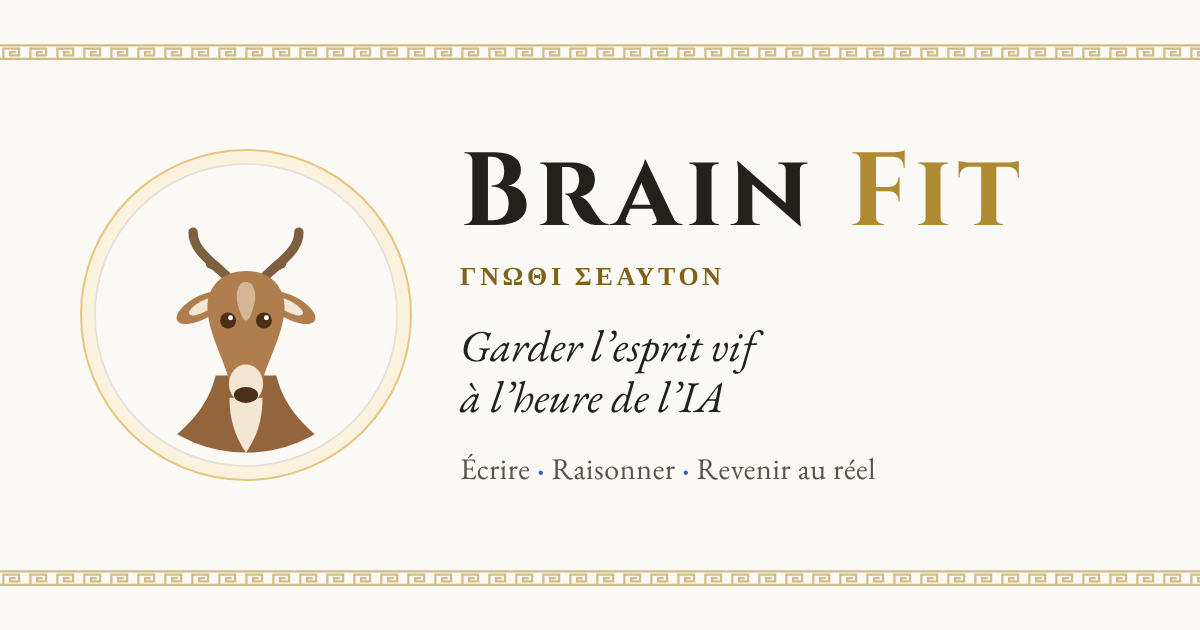
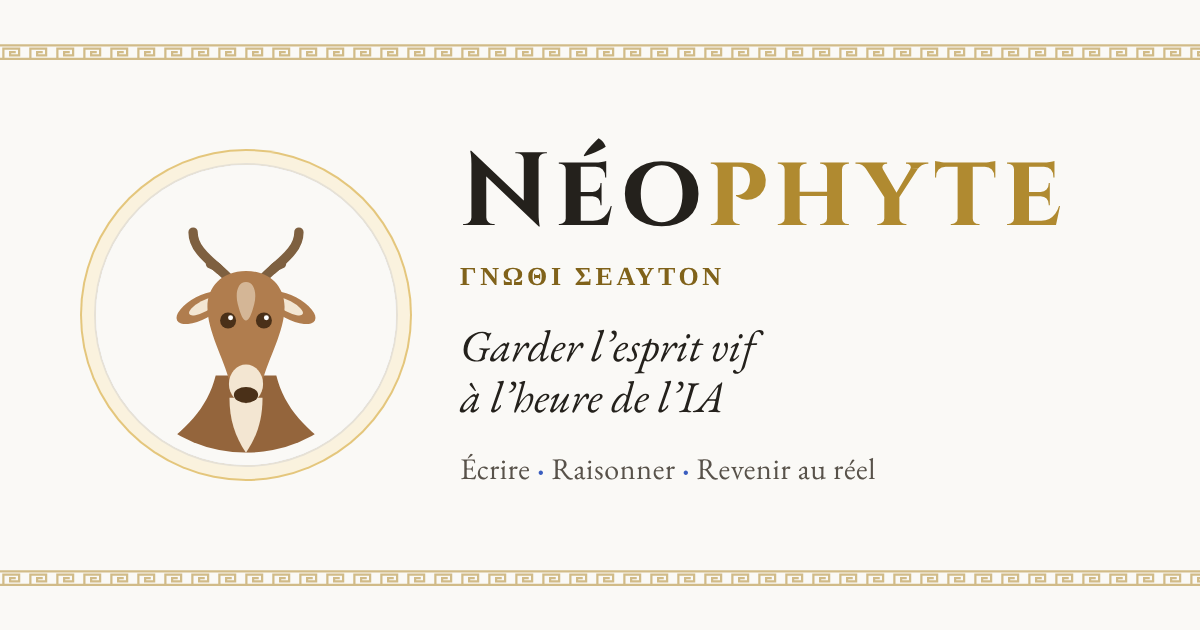
Renommer l'application en Néophyte (#1)
- Nom affiché, titre, balises de partage, manifeste, page 404 et README
- Logo en deux tons : Néo / phyte ; image d'aperçu des liens régénérée
- Fiches PDF : en-tête NÉOPHYTE, fichiers neophyte-*.pdf
- Niveau I renommé « Novice » pour ne pas doublonner avec le nom
- Inchangés : adresse /Brain-Fit/, clés de stockage brainfit.*, projet Supabase

Claude-Session: https://claude.ai/code/session_01LZgnse7bijyAPFwjxhEues

Changed region(s): [[0.37, 0.2111, 0.8942, 0.3619]]

diff --git a/public/index.html b/public/index.html
@@ -3,25 +3,25 @@
 <head>
 <meta charset="utf-8">
 <meta name="viewport" content="width=device-width, initial-scale=1, viewport-fit=cover">
-<title>Brain Fit · Garder l'esprit vif à l'heure de l'IA</title>
+<title>Néophyte · Garder l'esprit vif à l'heure de l'IA</title>
 <meta name="description" content="Quelques minutes par jour pour écrire, raisonner et retenir par toi-même. Gratuit, sans publicité.">
 <link rel="canonical" href="https://yohandk.github.io/Brain-Fit/">
 <meta property="og:type" content="website">
 <meta property="og:locale" content="fr_FR">
-<meta property="og:site_name" content="Brain Fit">
-<meta property="og:title" content="Brain Fit · Garder l'esprit vif à l'heure de l'IA">
+<meta property="og:site_name" content="Néophyte">
+<meta property="og:title" content="Néophyte · Garder l'esprit vif à l'heure de l'IA">
 <meta property="og:description" content="Quelques minutes par jour pour écrire, raisonner et retenir par toi-même. Gratuit, sans publicité.">
 <meta property="og:url" content="https://yohandk.github.io/Brain-Fit/">
 <meta property="og:image" content="https://yohandk.github.io/Brain-Fit/og.png">
 <meta property="og:image:width" content="1200">
 <meta property="og:image:height" content="630">
-<meta property="og:image:alt" content="Le cerf de Brain Fit et la devise « Garder l'esprit vif à l'heure de l'IA »">
+<meta property="og:image:alt" content="Le cerf de Néophyte et la devise « Garder l'esprit vif à l'heure de l'IA »">
 <meta name="twitter:card" content="summary_large_image">
 <meta name="theme-color" content="#FAF9F6" media="(prefers-color-scheme: light)">
 <meta name="theme-color" content="#101219" media="(prefers-color-scheme: dark)">
 <meta name="apple-mobile-web-app-capable" content="yes">
 <meta name="mobile-web-app-capable" content="yes">
-<meta name="apple-mobile-web-app-title" content="Brain Fit">
+<meta name="apple-mobile-web-app-title" content="Néophyte">
 <meta name="apple-mobile-web-app-status-bar-style" content="default">
 <link rel="manifest" href="manifest.webmanifest">
 <link rel="icon" href="icon.svg" type="image/svg+xml">
@@ -653,7 +653,7 @@ q{quotes:"« " " »" "“" "”"}
     <div class="brand">
       <button class="stag" id="stag" aria-label="Ton cerf : touche-le pour qu'il te parle"></button>
       <div class="brand-txt">
-        <h1>Brain <span>Fit</span></h1>
+        <h1>Néo<span>phyte</span></h1>
         <span class="motto"><b title="Connais-toi toi-même">ΓΝΩΘΙ ΣΕΑΥΤΟΝ</b> · <span id="today-label">aujourd'hui</span></span>
       </div>
       <div class="stag-bubble" id="stag-bubble" role="status" hidden></div>
@@ -691,7 +691,7 @@ q{quotes:"« " " »" "“" "”"}
   <!-- AUJOURD'HUI -->
   <section class="view" id="v-aujourdhui">
     <div class="panel syncwarn" id="syncwarn" hidden>
-      <p><b>Connecte-toi pour retrouver tes progrès partout.</b> Avec ton compte Brain Fit, ton téléphone et ton ordinateur partagent les mêmes progrès, et le coach est disponible. Sans compte, tout reste sur cet appareil.</p>
+      <p><b>Connecte-toi pour retrouver tes progrès partout.</b> Avec ton compte Néophyte, ton téléphone et ton ordinateur partagent les mêmes progrès, et le coach est disponible. Sans compte, tout reste sur cet appareil.</p>
       <form class="login" id="login">
         <input type="email" id="login-email" autocomplete="username" placeholder="Ton e-mail" aria-label="E-mail" required>
         <input type="password" id="login-pw" autocomplete="current-password" placeholder="Mot de passe" aria-label="Mot de passe" minlength="8" required>
@@ -987,11 +987,11 @@ q{quotes:"« " " »" "“" "”"}
       <p class="note">Sources vérifiées le 29 octobre 2026. Une expérience randomisée pèse plus qu'une enquête ou une corrélation, et un modèle théorique ne mesure rien : il décrit un scénario possible.</p>
     </div>
     <div class="panel" id="origins-panel">
-      <div><h2>D'où viennent les exercices</h2><p class="fg2">Aucun n'est inventé au hasard. Les formats viennent de la psychologie cognitive, de la logique et de la pédagogie, souvent de tests utilisés depuis plus d'un siècle. Les contenus (phrases, problèmes, arguments, événements) ont été rédigés et vérifiés pour Brain Fit, et le coach peut en créer d'autres. Une limite à connaître : un exercice entraîne surtout ce qu'il entraîne. C'est pourquoi l'écriture, le raisonnement et la lecture passent avant les jeux de mémoire.</p></div>
+      <div><h2>D'où viennent les exercices</h2><p class="fg2">Aucun n'est inventé au hasard. Les formats viennent de la psychologie cognitive, de la logique et de la pédagogie, souvent de tests utilisés depuis plus d'un siècle. Les contenus (phrases, problèmes, arguments, événements) ont été rédigés et vérifiés pour Néophyte, et le coach peut en créer d'autres. Une limite à connaître : un exercice entraîne surtout ce qu'il entraîne. C'est pourquoi l'écriture, le raisonnement et la lecture passent avant les jeux de mémoire.</p></div>
       <div id="origins"></div>
     </div>
     <div class="panel" id="pistes-panel">
-      <div><h2>8 pistes pour rester maître de sa pensée</h2><p class="fg2">Les pistes de la vidéo sur l'IA vue comme un « virus cognitif », et où les pratiquer dans Brain Fit.</p></div>
+      <div><h2>8 pistes pour rester maître de sa pensée</h2><p class="fg2">Les pistes de la vidéo sur l'IA vue comme un « virus cognitif », et où les pratiquer dans Néophyte.</p></div>
       <div class="tips" id="pistes"></div>
     </div>
     <div class="panel" id="rules-panel">
@@ -999,12 +999,12 @@ q{quotes:"« " " »" "“" "”"}
       <div class="tips" id="tips"></div>
     </div>
     <div class="panel" id="about">
-      <h2>À propos de Brain Fit</h2>
-      <p class="fg2" style="max-width:65ch">Brain Fit est né d'une inquiétude simple : à force de tout demander à l'IA, on risque de ne plus savoir écrire, raisonner ni retenir par soi-même. L'application propose un entraînement court et quotidien, fondé sur la recherche en psychologie cognitive et sur une tradition éducative ancienne : la dispute, l'examen, la relecture.</p>
+      <h2>À propos de Néophyte</h2>
+      <p class="fg2" style="max-width:65ch">Néophyte est né d'une inquiétude simple : à force de tout demander à l'IA, on risque de ne plus savoir écrire, raisonner ni retenir par soi-même. L'application propose un entraînement court et quotidien, fondé sur la recherche en psychologie cognitive et sur une tradition éducative ancienne : la dispute, l'examen, la relecture.</p>
       <ul class="fg2 about-list">
         <li>Gratuit, sans publicité ni mesure d'audience.</li>
         <li>Sans compte, tout reste sur ton appareil. Avec un compte, tes progrès sont gardés chez Supabase : le détail est dans « Tes données », dans les réglages.</li>
-        <li>Les contenus (problèmes, citations, questions disputées, études) ont été rédigés et vérifiés pour Brain Fit. Chaque citation et chaque étude indique sa source.</li>
+        <li>Les contenus (problèmes, citations, questions disputées, études) ont été rédigés et vérifiés pour Néophyte. Chaque citation et chaque étude indique sa source.</li>
         <li>Site hébergé par GitHub Pages (GitHub, Inc.). Il s'installe comme une application : sur iPhone, « Partager » puis « Sur l'écran d'accueil » ; sur Android, « Installer l'application ».</li>
       </ul>
     </div>
@@ -1039,13 +1039,13 @@ q{quotes:"« " " »" "“" "”"}
       <textarea id="export-box" hidden readonly style="min-height:120px;font-family:var(--f-mono);font-size:.8rem"></textarea>
       <p class="note" id="export-msg" hidden></p>
       <div id="import-row" hidden style="display:flex;flex-direction:column;gap:8px">
-        <textarea id="import-box" style="min-height:120px;font-family:var(--f-mono);font-size:.8rem" placeholder="Colle ici les données copiées depuis Brain Fit ouvert ailleurs." aria-label="Données à fusionner"></textarea>
+        <textarea id="import-box" style="min-height:120px;font-family:var(--f-mono);font-size:.8rem" placeholder="Colle ici les données copiées depuis Néophyte ouvert ailleurs." aria-label="Données à fusionner"></textarea>
         <div class="row"><button class="btn" id="import-go">Fusionner avec mes progrès</button><span class="note" id="import-msg"></span></div>
       </div>
     </div>
     <div class="panel" id="privacy">
       <div><h2>Tes données</h2>
-        <p class="fg2" style="max-width:65ch">Avec un compte, Brain Fit garde ton e-mail, tes progrès et tes textes chez Supabase, qui héberge sa base de données. Les autres utilisateurs ne peuvent pas les lire ; techniquement, la personne qui gère ce Brain Fit y a accès. Si tu rejoins un cercle, ses membres voient seulement ton pseudo, tes XP de la semaine et ta série. Quand tu parles au coach, ta demande et le résumé de tes progrès sont envoyés à Claude (Anthropic) pour qu'il réponde. Rien n'est vendu, et il n'y a ni publicité ni mesure d'audience.</p></div>
+        <p class="fg2" style="max-width:65ch">Avec un compte, Néophyte garde ton e-mail, tes progrès et tes textes chez Supabase, qui héberge sa base de données. Les autres utilisateurs ne peuvent pas les lire ; techniquement, la personne qui gère ce Néophyte y a accès. Si tu rejoins un cercle, ses membres voient seulement ton pseudo, tes XP de la semaine et ta série. Quand tu parles au coach, ta demande et le résumé de tes progrès sont envoyés à Claude (Anthropic) pour qu'il réponde. Rien n'est vendu, et il n'y a ni publicité ni mesure d'audience.</p></div>
       <div class="row"><button class="btn ghost" id="erase" hidden>Effacer mon compte</button></div>
       <div id="erase-confirm" class="row" hidden>
         <span class="fg2">Effacer ton compte, tes progrès, tes textes et ta place dans ton cercle ? Ce n'est pas réversible.</span>
@@ -1057,7 +1057,7 @@ q{quotes:"« " " »" "“" "”"}
   </section>
   <footer class="foot">
     <div class="meander" aria-hidden="true"></div>
-    <p><span class="foot-brand">Brain <span>Fit</span></span> · Garder l'esprit vif à l'heure de l'IA</p>
+    <p><span class="foot-brand">Néo<span>phyte</span></span> · Garder l'esprit vif à l'heure de l'IA</p>
     <p><button class="linkbtn" id="foot-about">À propos</button> · <button class="linkbtn" id="foot-privacy">Tes données</button> · <button class="linkbtn" id="foot-biblio">Bibliothèque</button></p>
     <p class="note">Gratuit, sans publicité ni mesure d'audience.</p>
   </footer>
@@ -1065,7 +1065,7 @@ q{quotes:"« " " »" "“" "”"}
 <div class="welcome" id="welcome" tabindex="-1" role="dialog" aria-modal="true" aria-labelledby="wl-title" hidden>
   <div class="wl-in">
     <div class="wl-em" id="wl-em" aria-hidden="true"></div>
-    <h1 id="wl-title">Brain <span>Fit</span></h1>
+    <h1 id="wl-title">Néo<span>phyte</span></h1>
     <p class="wl-motto" title="Connais-toi toi-même">ΓΝΩΘΙ ΣΕΑΥΤΟΝ</p>
     <p class="wl-lead">Garder l'esprit vif à l'heure de l'IA.</p>
     <p class="fg2">Quelques minutes par jour pour écrire, raisonner et retenir par toi-même. L'IA reste un outil : c'est toi qui penses.</p>
@@ -1130,14 +1130,14 @@ const EX={
 const ORIG={
   write:"L'écriture libre (freewriting) vient de Peter Elbow, Writing Without Teachers (1973) : écrire sans s'arrêter ni se corriger, pour que la pensée se forme en écrivant. Le format « Expliquer » reprend la technique dite de Feynman : si tu ne sais pas l'expliquer simplement, tu ne l'as pas compris. La « Disputatio » reprend la forme des articles de la Somme théologique de saint Thomas d'Aquin (XIIIe siècle), héritée de la dispute pratiquée dans les universités médiévales : objections, argument en sens contraire, réponse, réponse à chaque objection. Et ce que l'on produit soi-même se retient mieux que ce que l'on lit : c'est l'effet de génération (Slamecka et Graf, 1978).",
   probleme:"La plupart de ces énigmes viennent du test de réflexion cognitive de Shane Frederick (2005) : la raquette et la balle, les machines, les nénuphars. Elles opposent la réponse intuitive, le « système 1 » de Daniel Kahneman, au calcul réfléchi, le « système 2 ». S'y ajoutent la tâche de sélection de Peter Wason (1966, les quatre cartes), l'oubli du taux de base étudié par Kahneman et Tversky, et le problème de Monty Hall.",
-  erreuria:"Un format conçu pour Brain Fit, à partir d'un constat : plus on fait confiance à l'IA, moins on vérifie (Lee et al., CHI 2025). Il reprend le réflexe des vérificateurs professionnels étudié par Sam Wineburg et Sarah McGrew à Stanford : ne jamais juger un texte à son aisance. Les réponses piégées ont été écrites pour l'application, et le coach peut en inventer de nouvelles.",
+  erreuria:"Un format conçu pour Néophyte, à partir d'un constat : plus on fait confiance à l'IA, moins on vérifie (Lee et al., CHI 2025). Il reprend le réflexe des vérificateurs professionnels étudié par Sam Wineburg et Sarah McGrew à Stanford : ne jamais juger un texte à son aisance. Les réponses piégées ont été écrites pour l'application, et le coach peut en inventer de nouvelles.",
   hypotheses:"La méthode des hypothèses multiples est due au géologue Thomas Chamberlin (1890). Les analystes de la CIA l'ont formalisée sous le nom d'analyse des hypothèses concurrentes (Richards Heuer, Psychology of Intelligence Analysis, 1999), pour se protéger du biais de confirmation.",
   sophismes:"La liste remonte à Aristote, qui décrit treize façons de réfuter en trompant dans ses Réfutations sophistiques. Schopenhauer en a tiré un manuel ironique, L'Art d'avoir toujours raison (écrit vers 1830, publié en 1864). Les noms modernes (homme de paille, pente glissante, biais du survivant) viennent des manuels de logique informelle.",
   fermi:"Le physicien Enrico Fermi était célèbre pour ses estimations éclair : lors du premier essai atomique, en 1945, il évalua la puissance de l'explosion en lâchant des bouts de papier et en mesurant leur déplacement par le souffle. Sa question fétiche à ses étudiants : combien y a-t-il d'accordeurs de piano à Chicago ?",
   ortho:"Les phrases ciblent les fautes les plus fréquentes en français écrit : accord du participe passé, homophones (c'est ou s'est, leur ou leurs, sois ou soit), futur ou conditionnel. Celles que tu rates reviennent en priorité aux séances suivantes, sur le principe de la répétition espacée.",
   lecture:"Mesurer à la fois la vitesse et la compréhension, comme les tests de lecture des écoles et des orthophonistes : lire vite sans comprendre ne compte pas. Repère : un adulte lit en silence environ 240 mots par minute un texte documentaire (Brysbaert, 2019).",
   citations:"Le florilège, c'est le recueil de citations des lettrés, du Moyen Âge aux humanistes : Montaigne avait fait peindre ses sentences préférées sur les poutres de sa librairie. Les révisions suivent les boîtes de Sebastian Leitner (1972) et deux résultats solides : l'oubli se combat en espaçant les rappels (Ebbinghaus, 1885), et se tester retient mieux que relire (Roediger et Karpicke, 2006).",
-  chrono:"Les historiens parlent de repères : quelques dates sûres qui servent d'appui pour situer toutes les autres. L'exercice mélange les époques puis resserre les écarts, et montre les dates après chaque réponse, au moment où elles se fixent le mieux. Les événements viennent d'une liste de plus de 260 dates établie pour Brain Fit, la même que « Ce jour-là ».",
+  chrono:"Les historiens parlent de repères : quelques dates sûres qui servent d'appui pour situer toutes les autres. L'exercice mélange les époques puis resserre les écarts, et montre les dates après chaque réponse, au moment où elles se fixent le mieux. Les événements viennent d'une liste de plus de 260 dates établie pour Néophyte, la même que « Ce jour-là ».",
   focus:"Inspiré du travail en profondeur (Cal Newport, Deep Work, 2016) et des mesures de Gloria Mark : notre attention sur un écran ne tient plus qu'environ 47 secondes avant de bifurquer. Quitter la page compte comme une interruption.",
   calc:"Le calcul mental chronométré mesure la vitesse de traitement, comme certaines épreuves des tests d'intelligence. Il entretient l'aisance avec les nombres, mais la recherche est nette : ce type d'exercice améliore surtout ce qu'il entraîne, pas l'intelligence en général (Simons et al., 2016).",
   span:"L'un des plus vieux tests de psychologie : Joseph Jacobs le fait passer dès 1887 à des écoliers londoniens, et il figure toujours dans les échelles de Wechsler, à l'endroit et à l'envers. Retenir environ 7 chiffres est la norme adulte, le « nombre magique » de George Miller (1956).",
@@ -1425,7 +1425,7 @@ const EVENTS=[
 ['1229',1170,"Thomas Becket est assassiné dans la cathédrale de Cantorbéry."]
 ];
 const fmtY=y=>y<0?(-y)+' av. J.-C.':String(y);
-// dictées : l niveau 1 à 4, a auteur (null : texte écrit pour Brain Fit), p pièges [mot tel qu'il apparaît, règle]
+// dictées : l niveau 1 à 4, a auteur (null : texte écrit pour Néophyte), p pièges [mot tel qu'il apparaît, règle]
 const DICTEES=[
   {id:'marche',th:'',l:1,ti:'Le marché du samedi',a:null,tx:"Chaque samedi, ma grand-mère part au marché avec son panier. Elle achète des pommes, des poireaux et un gros pain de campagne. Les marchands l'appellent par son prénom et lui gardent les plus beaux fruits. Sur le chemin du retour, elle s'arrête toujours pour bavarder avec ses voisines.",
    p:[["grand-mère","Nom composé avec trait d'union ; « grand » reste invariable devant un nom féminin."],["achète","Acheter prend un accent grave devant une syllabe muette : elle achète, nous achetons."],["poireaux","Les noms en -eau font leur pluriel en -x."],["appellent","Appeler double le l devant un e muet : ils appellent, nous appelons."],["beaux","Beau devient beaux au pluriel."],["s'arrête","Verbe pronominal : elle s'arrête, avec l'apostrophe."]]},
@@ -1674,7 +1674,7 @@ const LESSONS=[
     ["obs","GPS et mémoire spatiale","50 conducteurs, dont 13 revus trois ans plus tard : plus ils utilisaient le GPS, plus leur mémoire spatiale (liée à l'hippocampe) déclinait. Petit échantillon pour le suivi.","Dahmani & Bohbot, Scientific Reports, 2020","https://pmc.ncbi.nlm.nih.gov/articles/PMC7156656/"],
     ["rev","Une érosion qu'on ne sent pas","Des chercheurs en sciences cognitives avertissent que l'assistance par IA peut accélérer la perte de compétences chez les experts et freiner leur acquisition chez les novices, sans que les personnes s'en rendent compte, car leurs performances avec l'outil restent bonnes.","Macnamara et al., Cognitive Research, 2024","https://pmc.ncbi.nlm.nih.gov/articles/PMC11239631/"],
     ["mod","L'IA vue comme un « virus cognitif »","L'article de ta vidéo. Des chercheurs (dont Ricard Solé, David Krakauer et Michael Levin) modélisent la diffusion des LLM comme une contagion : au-delà d'un seuil, une population peut basculer vite vers une dépendance durable, difficile à inverser. C'est un modèle théorique, sans données mesurées. Leur piste : garder une dépendance réversible.","Solé et al., arXiv, 3 septembre 2026","https://arxiv.org/abs/2609.03344"],
-    ["rev","Les jeux d'entraînement cérébral ont leurs limites","Les exercices de ce type améliorent surtout… ces exercices. Le transfert vers l'intelligence générale est faible. Dans Brain Fit, ils servent d'échauffement et de baromètre. Ce qui protège vraiment : penser par soi-même sur de vrais problèmes, apprendre, lire, écrire, bouger, dormir.","Simons et al., Psychological Science in the Public Interest, 2016","https://scholar.google.com/scholar?q=Simons+Do+brain-training+programs+work"]
+    ["rev","Les jeux d'entraînement cérébral ont leurs limites","Les exercices de ce type améliorent surtout… ces exercices. Le transfert vers l'intelligence générale est faible. Dans Néophyte, ils servent d'échauffement et de baromètre. Ce qui protège vraiment : penser par soi-même sur de vrais problèmes, apprendre, lire, écrire, bouger, dormir.","Simons et al., Psychological Science in the Public Interest, 2016","https://scholar.google.com/scholar?q=Simons+Do+brain-training+programs+work"]
   ]],
   ["Le fléau des écrans","Bien avant l'IA, les écrans ont fragmenté notre attention. Bonne nouvelle : c'est en partie réversible, et vite.",[
     ["rct","Deux semaines sans internet mobile : 10 ans d'attention regagnés","467 personnes recrutées. Pendant deux semaines, internet est bloqué sur leur téléphone (appels et SMS restent possibles). Le temps d'écran passe de 314 à 161 minutes par jour. L'attention soutenue s'améliore d'un niveau équivalent à 10 ans de déclin lié à l'âge, et le bien-être progresse. Limite : seul un quart des participants a tenu le blocage au moins 10 jours.","Castelo et al., PNAS Nexus, 2025","https://www.eurekalert.org/news-releases/1073052"],
@@ -1877,7 +1877,7 @@ const TUTORS={
     rel:"Deux minutes de relecture, à la manière de saint Ignace : de quoi rendre grâce dans ton travail de cette semaine ? Qu'est-ce qui t'a aidé, qu'est-ce qui t'a freiné ? Quelle seule résolution prends-tu pour la semaine qui vient ?"}
 };
 const tutorKey=()=>TUTORS[state.settings.tutor]?state.settings.tutor:'mix';
-const COACH_BASE="Tu es le coach cognitif personnel de l'utilisateur, dans l'application Brain Fit. Son but : garder et développer ses capacités de réflexion malgré l'usage quotidien de l'IA. Ses priorités : l'écriture (orthographe comprise) et le raisonnement, avec un exercice chaque jour, un programme hebdomadaire exigeant (2 lectures intensives, 1 séance d'écriture longue), un régime pauvre en contenus courts et 3 discussions intéressantes par jour. Tu t'appuies sur ces principes : réfléchir avant de demander à l'IA, se faire challenger par l'IA plutôt que la laisser produire, apprentissage actif et espacé, expliquer à voix haute, hypothèses concurrentes, métacognition, lecture latérale. Tu es nourri de la tradition chrétienne d'éducation et de la culture classique : l'étude est une recherche de la vérité, qui demande ordre, humilité et persévérance, et l'intelligence est faite pour le vrai et le bien, non pour briller. Quand c'est juste et naturel, tu peux t'appuyer sur saint Augustin, saint Thomas d'Aquin, saint Ignace de Loyola, Pascal ou les grands auteurs, sans sermonner ni plaquer de citations, et en ne citant que ce dont tu es sûr, avec sa source. Ton style : chaleureux mais exigeant, direct, concret, en français, en tutoyant. Règles absolues : tu ne fais jamais le travail à sa place, tu ne réécris jamais ses textes et tu ne donnes pas de solution toute faite quand il peut la trouver ; tu pointes, tu questionnes, tu proposes un prochain pas. Réponds en texte simple, sans markdown (pas de **, pas de #), avec des tirets pour les listes. Sois concis.";
+const COACH_BASE="Tu es le coach cognitif personnel de l'utilisateur, dans l'application Néophyte. Son but : garder et développer ses capacités de réflexion malgré l'usage quotidien de l'IA. Ses priorités : l'écriture (orthographe comprise) et le raisonnement, avec un exercice chaque jour, un programme hebdomadaire exigeant (2 lectures intensives, 1 séance d'écriture longue), un régime pauvre en contenus courts et 3 discussions intéressantes par jour. Tu t'appuies sur ces principes : réfléchir avant de demander à l'IA, se faire challenger par l'IA plutôt que la laisser produire, apprentissage actif et espacé, expliquer à voix haute, hypothèses concurrentes, métacognition, lecture latérale. Tu es nourri de la tradition chrétienne d'éducation et de la culture classique : l'étude est une recherche de la vérité, qui demande ordre, humilité et persévérance, et l'intelligence est faite pour le vrai et le bien, non pour briller. Quand c'est juste et naturel, tu peux t'appuyer sur saint Augustin, saint Thomas d'Aquin, saint Ignace de Loyola, Pascal ou les grands auteurs, sans sermonner ni plaquer de citations, et en ne citant que ce dont tu es sûr, avec sa source. Ton style : chaleureux mais exigeant, direct, concret, en français, en tutoyant. Règles absolues : tu ne fais jamais le travail à sa place, tu ne réécris jamais ses textes et tu ne donnes pas de solution toute faite quand il peut la trouver ; tu pointes, tu questionnes, tu proposes un prochain pas. Réponds en texte simple, sans markdown (pas de **, pas de #), avec des tirets pour les listes. Sois concis.";
 const coachRules=()=>COACH_BASE+' '+TUTORS[tutorKey()].coach;
 /* ---------- citations à retenir ----------
    c : philo, politique, histoire, nation, classique, ecriture, fausse. a : auteur réel. f : fausse attribution courante.
@@ -1914,7 +1914,7 @@ const QUOTES=[
 {id:'durant',c:'fausse',q:"Nous sommes ce que nous faisons de manière répétée. L'excellence n'est donc pas un acte, mais une habitude.",a:"Will Durant",f:"Aristote",s:"Will Durant, The Story of Philosophy (1926), résumant Aristote",n:"Phrase partout attribuée à Aristote. Elle est de l'historien américain Will Durant, qui résumait l'Éthique à Nicomaque. L'idée est bien d'Aristote, la formule non.",k:"habitude"},
 {id:'fleuve',c:'philo',q:"On ne se baigne jamais deux fois dans le même fleuve.",a:"Héraclite",s:"Fragment rapporté par Platon (Cratyle, 402a) et Plutarque, vers 500 av. J.-C.",n:"Tout change, y compris celui qui se baigne. Héraclite n'a laissé que des fragments cités par d'autres : on le lit toujours à travers quelqu'un.",k:"fleuve"},
 {id:'osons',c:'philo',q:"Ce n'est pas parce que les choses sont difficiles que nous n'osons pas, c'est parce que nous n'osons pas qu'elles sont difficiles.",a:"Sénèque",s:"Lettres à Lucilius, 104 (vers 64 apr. J.-C.)",n:"La difficulté est souvent une impression née de l'évitement. Le remède stoïcien : commencer, même petit.",k:"osons"},
-{id:'port',c:'philo',q:"Aucun vent n'est favorable pour qui ne sait pas vers quel port il navigue.",a:"Sénèque",s:"Lettres à Lucilius, 71 (vers 64 apr. J.-C.)",n:"Sans but précis, l'effort se disperse. C'est pourquoi Brain Fit te demande un objectif du moment.",k:"port"},
+{id:'port',c:'philo',q:"Aucun vent n'est favorable pour qui ne sait pas vers quel port il navigue.",a:"Sénèque",s:"Lettres à Lucilius, 71 (vers 64 apr. J.-C.)",n:"Sans but précis, l'effort se disperse. C'est pourquoi Néophyte te demande un objectif du moment.",k:"port"},
 {id:'temps',c:'philo',q:"Ce n'est pas que nous ayons peu de temps, c'est que nous en perdons beaucoup.",a:"Sénèque",s:"De la brièveté de la vie, I (vers 49 apr. J.-C.)",n:"Écrit deux mille ans avant le smartphone. Sénèque reproche à ses contemporains de gaspiller leur vie en occupations vides.",k:"perdons"},
 {id:'jugements',c:'philo',q:"Ce qui trouble les hommes, ce ne sont pas les choses, mais les jugements qu'ils portent sur les choses.",a:"Épictète",s:"Manuel, V (vers 125 apr. J.-C., noté par son élève Arrien)",n:"Épictète, ancien esclave, distingue l'événement de son interprétation. C'est l'une des sources de la thérapie cognitive moderne.",k:"jugements"},
 {id:'depend',c:'philo',q:"Parmi les choses, les unes dépendent de nous, les autres n'en dépendent pas.",a:"Épictète",s:"Manuel, I (vers 125 apr. J.-C.)",n:"La première phrase du Manuel. Ce qui dépend de toi : tes jugements, tes efforts, ton attention. Le reste, accepte-le.",k:"dépendent"},
@@ -2214,7 +2214,7 @@ async function renderCircle(){
   if(!circleData)body.replaceChildren(el('p',{class:'note',text:'Chargement du classement…'}));
   await circlePush(); await circleLoad();
   if(!circleData){body.replaceChildren(el('p',{class:'note',text:'Classement indisponible pour l’instant.'}));return;}
-  const share=`Rejoins mon cercle Brain Fit « ${circleData.name} » : ouvre https://yohandk.github.io/Brain-Fit/, crée ton compte, puis onglet Classement, code ${c}.`;
+  const share=`Rejoins mon cercle Néophyte « ${circleData.name} » : ouvre https://yohandk.github.io/Brain-Fit/, crée ton compte, puis onglet Classement, code ${c}.`;
   const invite=el('button',{class:'btn',text:'Inviter',onclick:async()=>{try{if(navigator.share){await navigator.share({text:share});return;}await navigator.clipboard.writeText(share);toast('<span>Invitation copiée : colle-la dans un message.</span>');}catch(e){}}});
   const leave=el('button',{class:'btn ghost',text:'Quitter le cercle',onclick:async()=>{
     if(!leave.dataset.sure){leave.dataset.sure='1';leave.textContent='Vraiment quitter ?';return;}
@@ -2244,7 +2244,7 @@ $('#erase-yes').addEventListener('click',async()=>{
   ref=null; tref=null; state=blank(); texts=[];
   try{localStorage.removeItem(LS);localStorage.removeItem(LS_T);localStorage.removeItem('brainfit.draft');}catch(e){}
   renderAll(); localOnly(); setSync('local');
-  msg.textContent=full?'Ton compte et toutes tes données sont effacés.':'Tes progrès, tes textes et ta place dans ton cercle sont effacés. Pour supprimer aussi ton adresse e-mail, demande-le à la personne qui gère ce Brain Fit.';
+  msg.textContent=full?'Ton compte et toutes tes données sont effacés.':'Tes progrès, tes textes et ta place dans ton cercle sont effacés. Pour supprimer aussi ton adresse e-mail, demande-le à la personne qui gère ce Néophyte.';
 });
 function renderCjl(){
   const k=todayKey(), o=cjlEvent(k,cjlOff), [md,y,txt]=o.e, d=(state.days[k]||{}).cjl;
@@ -2384,7 +2384,7 @@ async function pdfKit(){
 async function makeFichePdf(F){
   const K=await pdfKit(), {doc,text,lines,h}=K;
   const date=fd(new Date(),{day:'numeric',month:'long',year:'numeric'});
-  text('BRAIN FIT',{size:9,font:'helvetica',style:'bold',grey:1,gap:.5});
+  text('NÉOPHYTE',{size:9,font:'helvetica',style:'bold',grey:1,gap:.5});
   text(`Fiche papier n° ${F.n}`,{size:20,style:'bold',gap:1});
   text(`${date} · Sans écran, sans IA, un stylo. 30 à 40 minutes. Le corrigé est à la fin : ne le regarde qu'une fois tout fini.`,{size:10.5,grey:1,gap:1});
   text('Commencé à : ________     Fini à : ________     Score : ____ / 15',{size:10.5,grey:1,gap:3});
@@ -2407,7 +2407,7 @@ async function makeFichePdf(F){
   text('3. Sophismes',{style:'bold'}); F.soph.forEach((f,i)=>text(`${String.fromCharCode(97+i)}) ${f[1]} : ${f[2]}`,{size:10}));
   text('4. Orthographe',{style:'bold'}); F.ortho.forEach((o,i)=>text(`${String.fromCharCode(97+i)}) ${o[1][o[2]]} : ${o[3]}`,{size:10}));
   text('5. Chronologie',{style:'bold'}); [...F.ev].sort((a,b)=>a[1]-b[1]||a[0].localeCompare(b[0])).forEach((e,i)=>text(`${i+1}. ${fmtY(e[1])} : ${e[2]}`,{size:10}));
-  text('Compte un point par réponse juste, puis note ton score dans Brain Fit (Exercices › Fiche papier).',{size:10,grey:1});
+  text('Compte un point par réponse juste, puis note ton score dans Néophyte (Exercices › Fiche papier).',{size:10,grey:1});
   return doc.output('blob');
 }
 /* cahiers thématiques à imprimer : une série d'un seul exercice, un coup de pouce, puis le corrigé */
@@ -2436,7 +2436,7 @@ function cahierData(kind){
 async function makeCahierPdf(C){
   const K=await pdfKit(), {text,lines,h}=K, c=CAHIERS[C.kind], L=i=>String.fromCharCode(97+i);
   const date=fd(new Date(),{day:'numeric',month:'long',year:'numeric'});
-  text('BRAIN FIT',{size:9,font:'helvetica',style:'bold',grey:1,gap:.5});
+  text('NÉOPHYTE',{size:9,font:'helvetica',style:'bold',grey:1,gap:.5});
   text(c.t,{size:20,style:'bold',gap:1});
   text(`${date} · Sans écran, sans IA, un stylo. Le corrigé est à la fin : ne le regarde qu'une fois tout fini.`,{size:10.5,grey:1,gap:1});
   text(`Commencé à : ________     Fini à : ________     Score : ____ / ${c.n}`,{size:10.5,grey:1,gap:3});
@@ -2468,7 +2468,7 @@ async function makeCahierPdf(C){
     C.items.forEach((ev,k)=>{K.need(50);text(`Frise ${k+1}`,{style:'bold',font:'helvetica',gap:2});ev.forEach(e=>text(`[   ]  ${e[2]}   Année : ______`,{gap:2.4}));K.need(6);text('',{gap:3});});
     K.page(); h('Corrigé'); C.items.forEach((ev,k)=>{text(`Frise ${k+1}`,{style:'bold',size:10});[...ev].sort((a,b)=>a[1]-b[1]||a[0].localeCompare(b[0])).forEach((e,i)=>text(`${i+1}. ${fmtY(e[1])} : ${e[2]}`,{size:10}));});
   }
-  text(`Compte un point par réponse juste, puis note ton score dans Brain Fit (Exercices › Fiche papier).`,{size:10,grey:1});
+  text(`Compte un point par réponse juste, puis note ton score dans Néophyte (Exercices › Fiche papier).`,{size:10,grey:1});
   return K.doc.output('blob');
 }
 // enregistre un fichier : par le service de téléchargement quand il existe, sinon téléchargement direct
@@ -2694,7 +2694,7 @@ document.addEventListener('pointerover',e=>{const t=e.target.closest&&e.target.c
 document.addEventListener('pointermove',e=>{if(tip.hidden)return;const w=tip.offsetWidth;tip.style.left=Math.min(window.innerWidth-w-8,Math.max(8,e.clientX-w/2))+'px';tip.style.top=(e.clientY-34)+'px';});
 
 $('#export').addEventListener('click',()=>{const t=JSON.stringify(state);const box=$('#export-box');box.value=t;box.hidden=false;$('#import-row').hidden=true;
-  const next=" Ouvre ensuite Brain Fit là où tu veux retrouver tes progrès, puis la rubrique Sauvegarde › « Coller des données » : les deux historiques sont fusionnés, rien n'est effacé.";
+  const next=" Ouvre ensuite Néophyte là où tu veux retrouver tes progrès, puis la rubrique Sauvegarde › « Coller des données » : les deux historiques sont fusionnés, rien n'est effacé.";
   const msg=t=>{$('#export-msg').textContent=t+next;$('#export-msg').hidden=false;};
   const done=()=>{$('#export').textContent='Copié';msg('Copié.');setTimeout(()=>$('#export').textContent='Copier mes données',1800);};
   const manual=()=>{box.select();msg('Copie tout le texte ci-dessus.');};
@@ -2703,14 +2703,14 @@ $('#import').addEventListener('click',()=>{$('#export-box').hidden=true;$('#expo
 // fusion des progrès faits ailleurs : on ajoute, on n'efface jamais
 $('#import-go').addEventListener('click',()=>{
   let x=null; try{x=JSON.parse($('#import-box').value.trim());}catch(e){}
-  if(!x||typeof x!=='object'||!x.days||!Array.isArray(x.results)){$('#import-msg').textContent="Ce ne sont pas des données Brain Fit : recopie-les en entier.";return;}
+  if(!x||typeof x!=='object'||!x.days||!Array.isArray(x.results)){$('#import-msg').textContent="Ce ne sont pas des données Néophyte : recopie-les en entier.";return;}
   const before=state.results.length;
   state=mergeStates(state,Object.assign(blank(),x)); save(); renderAll();
   const n=state.results.length-before; $('#import-box').value='';
   $('#import-msg').textContent=n?`Progrès fusionnés : ${n} exercice${n>1?'s':''} ajouté${n>1?'s':''}.`:'Progrès fusionnés : ces exercices étaient déjà là.';
 });
 $('#syncwarn-ok').addEventListener('click',()=>{try{sessionStorage.setItem('brainfit.later','1');}catch(e){}$('#syncwarn').hidden=true;});
-// compte Brain Fit : e-mail et mot de passe, gardés par Supabase
+// compte Néophyte : e-mail et mot de passe, gardés par Supabase
 $('#login').addEventListener('submit',async e=>{
   e.preventDefault();
   const sb=window.bfSupabase, msg=$('#login-msg'), isNew=e.submitter&&e.submitter.id==='login-new';
@@ -2734,7 +2734,7 @@ $('#reset-yes').addEventListener('click',()=>{state=blank();save();$('#reset-con
 function renderTips(){
   renderLessons();
   const pb=$('#pistes'); pb.replaceChildren();
-  PISTES.forEach((r,i)=>pb.append(el('div',{class:'tipcard'},el('span',{class:'k',text:String(i+1).padStart(2,'0')}),el('div',{},el('h3',{text:r[0]}),el('p',{text:r[1]}),el('span',{class:'evid',text:'Dans Brain Fit : '+r[2]})))));
+  PISTES.forEach((r,i)=>pb.append(el('div',{class:'tipcard'},el('span',{class:'k',text:String(i+1).padStart(2,'0')}),el('div',{},el('h3',{text:r[0]}),el('p',{text:r[1]}),el('span',{class:'evid',text:'Dans Néophyte : '+r[2]})))));
   const box=$('#tips'); box.replaceChildren();
   RULES.forEach((r,i)=>box.append(el('div',{class:'tipcard'},el('span',{class:'k',text:String(i+1).padStart(2,'0')}),el('div',{},el('h3',{text:r[0]}),el('p',{text:r[1]}),r[2]?el('span',{class:'evid',text:r[2]}):null))));
 }
@@ -2761,7 +2761,7 @@ function xpByDay(){
   return m;
 }
 function xpTotal(m){let t=Object.values(m).reduce((a,b)=>a+b,0);for(const p of Object.values(state.prog||{}))t+=((p.lect||0)+(p.ecrit||0))*20;return t;}
-const LEVEL_NAMES=['Néophyte','Disciple','Éphèbe','Scribe','Rhéteur','Logicien','Stratège','Philosophe','Archonte','Sage'];
+const LEVEL_NAMES=['Novice','Disciple','Éphèbe','Scribe','Rhéteur','Logicien','Stratège','Philosophe','Archonte','Sage'];
 const roman=n=>{let r='';for(const[v,s] of [[1000,'M'],[900,'CM'],[500,'D'],[400,'CD'],[100,'C'],[90,'XC'],[50,'L'],[40,'XL'],[10,'X'],[9,'IX'],[5,'V'],[4,'IV'],[1,'I']])while(n>=v){r+=s;n-=v;}return r;};
 // couronne de laurier en SVG : deux branches qui partent du bas, ouvertes en haut
 function laurel(size){
@@ -2992,12 +2992,12 @@ function renderScreenChart(){
 }
 let samplerP=null;
 function sampler(){if(!samplerP)samplerP=(window.claude&&window.claude.use?window.claude.use('sample'):Promise.resolve(null)).catch(()=>null);return samplerP;}
-const COACH_ERR={signed_out:"Connecte-toi à ton compte (onglet Aujourd'hui) pour parler au coach.",not_granted:"Le coach est réservé au propriétaire de ce Brain Fit : il paie chaque réponse. Tout le reste t'est ouvert.",rate_limited:"Le coach est très sollicité. Réessaie dans une minute.",refused:"Le coach ne peut pas répondre à cette demande. Reformule-la.",network:"Pas de connexion internet : le coach répondra quand tu seras de nouveau en ligne.",cancelled:""};
+const COACH_ERR={signed_out:"Connecte-toi à ton compte (onglet Aujourd'hui) pour parler au coach.",not_granted:"Le coach est réservé au propriétaire de ce Néophyte : il paie chaque réponse. Tout le reste t'est ouvert.",rate_limited:"Le coach est très sollicité. Réessaie dans une minute.",refused:"Le coach ne peut pas répondre à cette demande. Reformule-la.",network:"Pas de connexion internet : le coach répondra quand tu seras de nouveau en ligne.",cancelled:""};
 // Appelle le coach et affiche sa réponse en direct dans `out`. Renvoie le texte, ou null.
 async function askCoach(input,out,opts){
   const s=await sampler();
   out.hidden=false;
-  if(!s){out.className='coachout';out.textContent="Le coach n'est pas encore branché. Tout le reste de Brain Fit fonctionne déjà.";return null;}
+  if(!s){out.className='coachout';out.textContent="Le coach n'est pas encore branché. Tout le reste de Néophyte fonctionne déjà.";return null;}
   out.className='coachout wait'; out.textContent='Le coach réfléchit…';
   try{
     const {text}=await s(input,Object.assign({onText:({text})=>{out.className='coachout';out.textContent=text;}},opts||{}));
@@ -4145,7 +4145,7 @@ fiche(arena){
     mk.disabled=true; msg.textContent='Préparation de ta fiche…';
     try{
       const k=sel.value, F=k==='fiche'?ficheData():cahierData(k), blob=k==='fiche'?await makeFichePdf(F):await makeCahierPdf(F); save();
-      const r=await saveFile(k==='fiche'?`brain-fit-fiche-${F.n}.pdf`:`brain-fit-${k}-${F.n}.pdf`,blob);
+      const r=await saveFile(k==='fiche'?`neophyte-fiche-${F.n}.pdf`:`neophyte-${k}-${F.n}.pdf`,blob);
       msg.textContent=r==='saved'?'Fiche prête. Imprime-la, ou recopie-la à la main si tu n’as pas d’imprimante.':r==='declined'?'Enregistrement annulé.':'Impossible d’enregistrer le fichier ici.';
     }catch(e){msg.textContent='La fiche n’a pas pu être créée. Vérifie ta connexion et réessaie.';}
     mk.disabled=false; mk.textContent='Créer un autre PDF';

diff --git a/public/404.html b/public/404.html
@@ -3,7 +3,7 @@
 <head>
 <meta charset="utf-8">
 <meta name="viewport" content="width=device-width, initial-scale=1">
-<title>Page introuvable · Brain Fit</title>
+<title>Page introuvable · Néophyte</title>
 <meta name="robots" content="noindex">
 <link rel="icon" href="/Brain-Fit/icon.svg" type="image/svg+xml">
 <link rel="stylesheet" href="https://fonts.googleapis.com/css2?family=Cinzel:wght@700&family=EB+Garamond:ital,wght@0,400;0,600;1,400&display=swap">
@@ -23,9 +23,9 @@ a{display:inline-block;margin-top:10px;background:var(--accent);color:#fff;text-
 <body>
 <main>
   <img src="/Brain-Fit/icon.svg" alt="">
-  <h1>Brain <span>Fit</span></h1>
+  <h1>Néo<span>phyte</span></h1>
   <p>Cette page n'existe pas, ou plus. Même un esprit vif se trompe parfois de chemin.</p>
-  <a href="/Brain-Fit/">Revenir à Brain Fit</a>
+  <a href="/Brain-Fit/">Revenir à Néophyte</a>
 </main>
 </body>
 </html>

diff --git a/public/sw.js b/public/sw.js
@@ -1,4 +1,4 @@
-// Brain Fit hors ligne : on prend toujours la version en ligne si possible, sinon la dernière gardée.
+// Néophyte hors ligne : on prend toujours la version en ligne si possible, sinon la dernière gardée.
 const CACHE='brainfit-v1';
 const SHELL=['./','./config.js','./services.js','./manifest.webmanifest','./icon-192.png'];
 self.addEventListener('install',e=>{self.skipWaiting();e.waitUntil(caches.open(CACHE).then(c=>c.addAll(SHELL)));});

diff --git a/README.md b/README.md
@@ -1,4 +1,4 @@
-# Brain Fit
+# Néophyte
 
 Garder l'esprit vif à l'heure de l'IA : écriture, raisonnement, un exercice chaque jour.
 
@@ -42,7 +42,7 @@ Dans ce dépôt, **Settings › Secrets and variables › Actions › New reposi
 | `SUPABASE_ACCESS_TOKEN` | le jeton de l'étape 1.5 |
 | `SUPABASE_PROJECT_ID` | l'identifiant de l'étape 1.4 |
 | `ANTHROPIC_API_KEY` | la clé de l'étape 2 |
-| `ALLOWED_EMAIL` | ton adresse e-mail, celle de ton compte Brain Fit : seul ce compte peut utiliser le coach |
+| `ALLOWED_EMAIL` | ton adresse e-mail, celle de ton compte Néophyte : seul ce compte peut utiliser le coach |
 
 Puis **Actions › Déployer le coach › Run workflow** pour mettre le coach en ligne.
 
@@ -57,12 +57,12 @@ Pour changer de modèle (par exemple un modèle moins cher), ajoute dans l'ongle
 ### 5. Sur ton téléphone
 
 1. Ouvre l'adresse du site dans Safari (ou Chrome sur Android), puis **Partager › Sur l'écran d'accueil**.
-2. Ouvre Brain Fit depuis l'écran d'accueil et clique sur **Créer mon compte**. Confirme avec le lien reçu par e-mail, puis connecte-toi.
-3. Pour inviter des amis dans ton cercle, laisse les inscriptions ouvertes : le coach reste réservé à ton adresse (`ALLOWED_EMAIL`), donc à ta clé. Si tu préfères garder Brain Fit pour toi seul, dans Supabase, **Authentication › Sign In / Providers**, décoche **Allow new users to sign up**.
+2. Ouvre Néophyte depuis l'écran d'accueil et clique sur **Créer mon compte**. Confirme avec le lien reçu par e-mail, puis connecte-toi.
+3. Pour inviter des amis dans ton cercle, laisse les inscriptions ouvertes : le coach reste réservé à ton adresse (`ALLOWED_EMAIL`), donc à ta clé. Si tu préfères garder Néophyte pour toi seul, dans Supabase, **Authentication › Sign In / Providers**, décoche **Allow new users to sign up**.
 
 ### 6. Reprendre tes progrès de l'ancienne version
 
-1. Dans Brain Fit ouvert dans l'app Claude : **Progrès › Sauvegarde › Copier mes données**.
+1. Dans Néophyte ouvert dans l'app Claude : **Progrès › Sauvegarde › Copier mes données**.
 2. Dans le nouveau site, connecté : **Réglages (roue dentée en haut) › Sauvegarde › Coller des données**, colle, puis **Fusionner avec mes progrès**. Rien n'est effacé, les deux historiques s'additionnent.
 
 ## Coût
